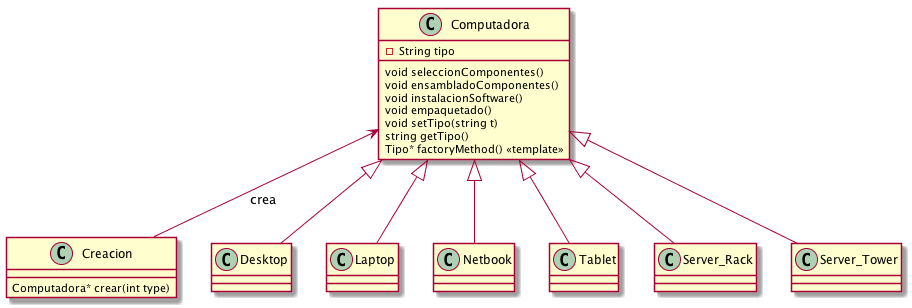
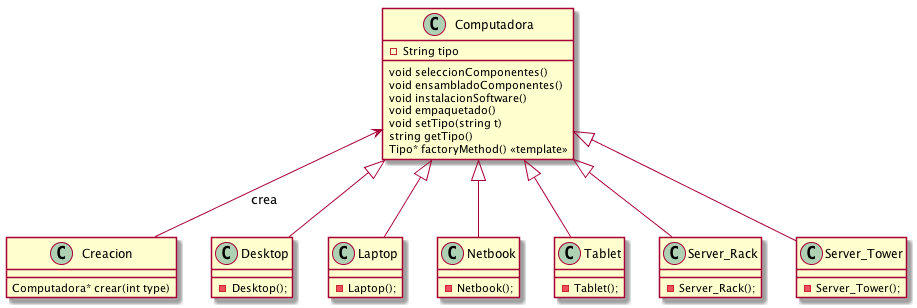
Edit: First partial exam

diff --git a/Evaluaciones/Primera/Compumarte.cpp b/Evaluaciones/Primera/Compumarte.cpp
@@ -23,16 +23,28 @@ public:
 };
 
 class Desktop: public Computadora{
+private:
+    Desktop();
 };
 class Laptop: public Computadora{
+private:
+    Laptop();
 };
 class Netbook: public Computadora{
+private:
+    Netbook();
 };
 class Tablet: public Computadora{
+private:
+    Tablet();
 };
 class Server_Rack: public Computadora{
+private:
+    Server_Rack();
 };
 class Server_Tower: public Computadora{
+private:
+    Server_Tower();
 };
 
 class Creacion{
